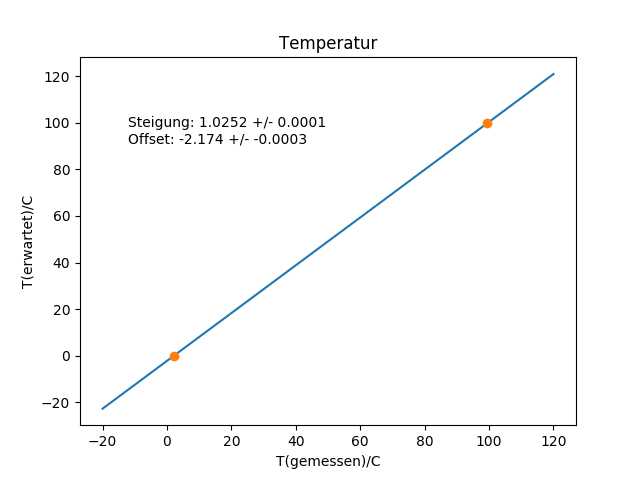
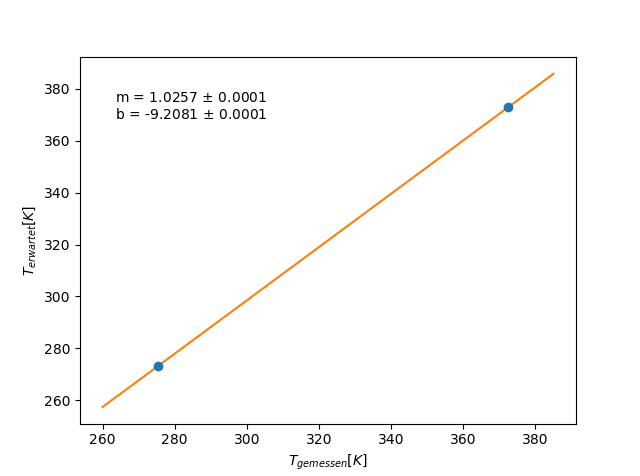
Thermo Kalibrierung

diff --git a/Thermodynamik/Python/Rauschen_und_Kalibrierung_B_Sebastian.py b/Thermodynamik/Python/Rauschen_und_Kalibrierung_B_Sebastian.py
@@ -10,14 +10,25 @@ import matplotlib.pyplot as plt
 import numpy as np
 
 
-# Auswertung Rauschen
-data = p.lese_lab_datei("CASSY\Rauschmessungen.lab")
-temperatur = data[:,3] +273.15
-druck = data[:,2]
+# Auswertung Eiswasser
+data = p.lese_lab_datei("Lab\Temperatur_Eiswasser.lab")
+temperatur = data[:,2] +273.15
+druck = data[:,4]
 
 
 # Rauschen -> Unsicherheit auf Einzelwerte
 sigma_temp = np.std(temperatur, ddof=1)
+
+minimum = 1000
+for i in range(temperatur.size-1):
+    neu = np.abs(temperatur[i]-temperatur[i+1])
+    if (neu < minimum and neu > 0):
+        minimum = neu
+        
+print(minimum)
+# Plot Histogramm Rauschen im Eiswasser
+plt.figure(2)
+plt.hist(temperatur-273.15, bins = 30)
 
 
 # Luftdruck im Raum mit Unsicherheit:
@@ -26,11 +37,9 @@ luftdruck = np.mean(druck)
 sigma_luftdruck = 0.75 / np.sqrt(12)
 
 
-
-
 # Kalibration Thermometer
-data = p.lese_lab_datei("CASSY\Temperatur_siedend.lab")
-temperatur2 = data[-301:,3] + 273.15
+data = p.lese_lab_datei("Lab\Temperatur_siedend.lab")
+temperatur2 = data[-301:,2] + 273.15
 
 
 # Schmelztemperatur von Wasser -> 273.15K erwartet

diff --git a/Thermodynamik/Python/Auswertung_Hauptmessung_neu_B.py b/Thermodynamik/Python/Auswertung_Hauptmessung_neu_B.py
@@ -58,16 +58,16 @@ temperatur = data[100:,2]
 R = 8.314
 
 # Korrekturwerte für Druck und Temperatur
-m = 1.0101
+m = 1.01
 sigma_m = 0.0001
-b = -3.29
+b = -3.27
 sigma_b = 0.0001
 offset_druck = -16.04
               
 # Rauschwerte -> Fehler auf Einzelwerte
 sigma_p_stat = 0.75/np.sqrt(12)
 sigma_p_sys = 0.75/np.sqrt(12)
-sigma_t_stat = 0.04
+sigma_t_stat = 0.17
 sigma_t_sys = np.sqrt(temperatur**2*sigma_m**2 + m**2*sigma_t_stat**2 + sigma_b**2)
 
 # Druck und Temperatur beim Sieden
